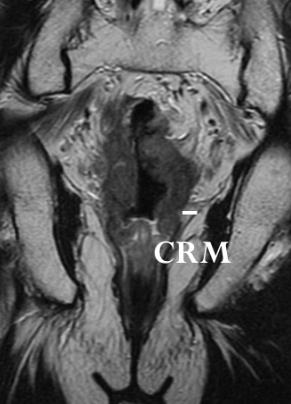
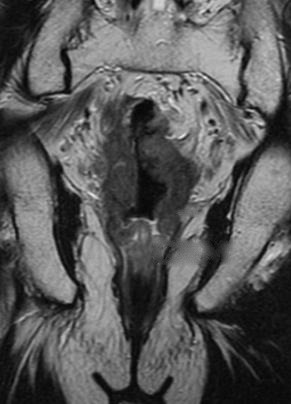
Fiche rectum : iconographie au style du site, nouveau schéma du staging T
- 10 images : flèches, têtes de flèche, textes et mesure incrustés repérés
  au pixel près, effacés, puis redessinés au même endroit dans un calque
  SVG (flèches orange cernées d'encre, tête de flèche noire en bleu, formes
  « ➤ » du stade T3 gardées, étiquettes en Montserrat, « 1,57 cm »).
- Lettres d'article A, B, C sans objet et curseur de souris retirés.
- Images « avant / après » recadrées en 2:1 (format affiché) ; pastille
  « Avant / après » retirée de 3 figures (doublon des étiquettes) ;
  l'agrandissement reprend le calque (.lb-wrap).
- Schéma du staging T remplacé par le dessin de l'auteur.
- Images versionnées (?v=20261021) ; README.

Claude-Session: https://claude.ai/code/session_01XRUNcZaE25We66fu1uYoPm

Changed region(s): [[0.5258, 0.5941, 0.8041, 0.6535], [0.6186, 0.505, 0.6804, 0.5347]]

diff --git a/fiches/irm-cancer-rectum.html b/fiches/irm-cancer-rectum.html
@@ -267,7 +267,7 @@
           <div class="ex-gallery">
             <div class="ex-grid ex-grid-wide">
               <figure class="ex-fig" style="--c: var(--amber)">
-                <button class="ex-img" aria-label="Agrandir : Formes tumorales"><img src="../assets/fiches/rectum/formes-tumorales.jpg" alt="IRM T2 sagittale et axiale — illustration des formes tumorales" loading="lazy"><span class="ex-mod">IRM T2</span></button>
+                <button class="ex-img" aria-label="Agrandir : Formes tumorales"><img src="../assets/fiches/rectum/formes-tumorales.jpg?v=20261021" alt="IRM T2 sagittale et axiale — illustration des formes tumorales" loading="lazy"><span class="ex-mod">IRM T2</span></button>
                 <figcaption><strong>Formes tumorales</strong>Coupes sagittale et axiale T2 illustrant l'aspect morphologique de la tumeur (illustration du cours).</figcaption>
               </figure>
             </div>
@@ -324,8 +324,8 @@
                   <p><mark class="k-key">Envahissement du mésorectum</mark>.</p>
                   <p><mark class="k-ddx">Piège</mark> : discontinuité de la musculeuse (vaisseaux perforants) et spiculations péri-rectales : <mark class="k-ddx">spicules non tumorales</mark> (réaction desmoplastique bénigne) ou tumorales.</p>
                   <figure class="ex-fig ex-inline" style="--c: var(--orange)">
-                    <button class="ex-img" aria-label="Agrandir : Stade T3"><img src="../assets/fiches/rectum/stade-t3.jpg" alt="IRM T2 axiale — stade T3" loading="lazy"><span class="ex-mod">T2 axial</span></button>
-                    <figcaption><strong>Stade T3</strong>Extension tumorale dans la graisse du mésorectum (têtes de flèche).</figcaption>
+                    <button class="ex-img" aria-label="Agrandir : Stade T3"><img src="../assets/fiches/rectum/stade-t3.jpg?v=20261021" alt="IRM T2 axiale — stade T3" loading="lazy"><svg class="annot" style="position:absolute;top:0;left:0;width:100%;height:100%;overflow:hidden" viewBox="0 0 341 270" aria-hidden="true"><g class="mk" data-mk="ext"><path fill="#f2ab2f" stroke="#111114" stroke-width="1.8" stroke-linejoin="round" d="M137.8 193 121.5 199.2 130.9 200.8 134.1 209.4 Z"/></g><g class="mk" data-mk="ext"><path fill="#f2ab2f" stroke="#111114" stroke-width="1.8" stroke-linejoin="round" d="M163.3 197.5 157 213.8 164.6 207.9 173.3 211.3 Z"/></g></svg><span class="ex-mod">T2 axial</span></button>
+                    <figcaption><strong>Stade T3</strong>Extension tumorale dans la graisse du mésorectum (têtes de flèche orange).</figcaption>
                   </figure>
                 </article>
                 <article class="t-panel" data-t="t4" style="--c: var(--k-grave)">
@@ -335,7 +335,7 @@
               </div>
             </div>
             <figure class="ex-fig ex-schema" style="--c: var(--slate)">
-              <button class="ex-img" aria-label="Agrandir : Schéma du staging T"><img src="../assets/fiches/rectum/schema-staging-t.jpg" alt="Schéma du staging T du cancer du rectum" loading="lazy"><span class="ex-mod">Schéma</span></button>
+              <button class="ex-img" aria-label="Agrandir : Schéma du staging T"><img src="../assets/fiches/rectum/schema-staging-t.jpg?v=20261021" alt="Schéma du staging T du cancer du rectum : T1 sous-muqueuse, T2 musculeuse, T3 au-delà de la musculeuse, T4 viscères adjacents" loading="lazy"><span class="ex-mod">Schéma</span></button>
               <figcaption><strong>Staging T</strong>T1 sous-muqueuse, T2 musculeuse, T3 mésorectum, T4 organes de voisinage.</figcaption>
             </figure>
           </div>
@@ -374,15 +374,15 @@
           <div class="ex-gallery">
             <div class="ex-grid">
               <figure class="ex-fig ex-schema" style="--c: var(--slate)">
-                <button class="ex-img" aria-label="Agrandir : Schéma CRM tumeur T1"><img src="../assets/fiches/rectum/schema-crm-t1.png" alt="Schéma : CRM et EMS pour une tumeur T1" loading="lazy"><span class="ex-mod">Schéma</span></button>
+                <button class="ex-img" aria-label="Agrandir : Schéma CRM tumeur T1"><img src="../assets/fiches/rectum/schema-crm-t1.png?v=20261021" alt="Schéma : CRM et EMS pour une tumeur T1" loading="lazy"><svg class="annot" style="position:absolute;top:0;left:0;width:100%;height:100%;overflow:hidden" viewBox="0 0 679 466" aria-hidden="true"><text x="319" y="73.1" text-anchor="middle" font-family="Montserrat, system-ui, sans-serif" font-weight="700" font-size="15.5" fill="#111114">mésorectum</text><text x="57.5" y="147.1" text-anchor="middle" font-family="Montserrat, system-ui, sans-serif" font-weight="700" font-size="15.5" fill="#111114">fascia recti</text><text x="579" y="307" text-anchor="start" font-family="Montserrat, system-ui, sans-serif" font-weight="700" font-size="14" fill="#111114">Ganglion</text><text x="579" y="329.5" text-anchor="start" font-family="Montserrat, system-ui, sans-serif" font-weight="700" font-size="14" fill="#111114">non suspect</text><text x="586" y="374" text-anchor="start" font-family="Montserrat, system-ui, sans-serif" font-weight="700" font-size="14" fill="#111114">Ganglion</text><text x="586" y="397.5" text-anchor="start" font-family="Montserrat, system-ui, sans-serif" font-weight="700" font-size="14" fill="#111114">suspect</text><text x="585" y="428.5" text-anchor="start" font-family="Montserrat, system-ui, sans-serif" font-weight="700" font-size="14" fill="#111114">musculeuse</text><text x="380.5" y="288.9" text-anchor="middle" font-family="Montserrat, system-ui, sans-serif" font-weight="900" font-size="15" fill="#111114">T3</text><g class="mk" data-mk="ems"><path d="M450.9 250.4 L486.9 289.6" stroke="#111114" stroke-width="6" stroke-linecap="round" fill="none"/><path d="M450.9 250.4 L486.9 289.6" stroke="#f7c832" stroke-width="3.2" stroke-linecap="round" fill="none"/><path fill="#f7c832" stroke="#111114" stroke-width="1.4" stroke-linejoin="round" d="M446 245.1 448.1 255.5 456.1 248 Z"/><path fill="#f7c832" stroke="#111114" stroke-width="1.4" stroke-linejoin="round" d="M491.8 294.9 481.7 292 489.8 284.5 Z"/></g><rect x="470.8" y="229" width="46.4" height="19" rx="9.5" fill="#f7c832" stroke="#111114" stroke-width="1.5"/><text x="494.4" y="242.8" text-anchor="middle" font-family="Montserrat, system-ui, sans-serif" font-weight="900" font-size="12" letter-spacing="0.7" fill="#111114">EMS</text><g class="mk" data-mk="crm"><path d="M445.5 332.9 L461.6 358" stroke="#111114" stroke-width="5.2" stroke-linecap="round" fill="none"/><path d="M445.5 332.9 L461.6 358" stroke="#1f8a5b" stroke-width="2.6" stroke-linecap="round" fill="none"/></g><rect x="388.4" y="352.5" width="48.2" height="19" rx="9.5" fill="#1f8a5b" stroke="#111114" stroke-width="1.5"/><text x="412.9" y="366.3" text-anchor="middle" font-family="Montserrat, system-ui, sans-serif" font-weight="900" font-size="12" letter-spacing="0.7" fill="#ffffff">CRM</text></svg><span class="ex-mod">Schéma</span></button>
                 <figcaption><strong>CRM et EMS · tumeur T1</strong>CRM (vert) mesurée jusqu'au fascia recti ; distinction ganglion suspect / non suspect.</figcaption>
               </figure>
               <figure class="ex-fig ex-schema" style="--c: var(--slate)">
-                <button class="ex-img" aria-label="Agrandir : Schéma CRM tumeur T3"><img src="../assets/fiches/rectum/schema-crm-t3.png" alt="Schéma : CRM et EMS pour une tumeur T3" loading="lazy"><span class="ex-mod">Schéma</span></button>
+                <button class="ex-img" aria-label="Agrandir : Schéma CRM tumeur T3"><img src="../assets/fiches/rectum/schema-crm-t3.png?v=20261021" alt="Schéma : CRM et EMS pour une tumeur T3" loading="lazy"><svg class="annot" style="position:absolute;top:0;left:0;width:100%;height:100%;overflow:hidden" viewBox="0 0 591 413" aria-hidden="true"><text x="328" y="79.8" text-anchor="middle" font-family="Montserrat, system-ui, sans-serif" font-weight="700" font-size="16" fill="#111114">mésorectum</text><text x="61.5" y="144.8" text-anchor="middle" font-family="Montserrat, system-ui, sans-serif" font-weight="700" font-size="16" fill="#111114">fascia recti</text><text x="416" y="297.4" text-anchor="middle" font-family="Montserrat, system-ui, sans-serif" font-weight="900" font-size="15" fill="#111114">T3</text><g class="mk" data-mk="ems"><path d="M483.1 251.4 L521.6 289.9" stroke="#111114" stroke-width="6" stroke-linecap="round" fill="none"/><path d="M483.1 251.4 L521.6 289.9" stroke="#f7c832" stroke-width="3.2" stroke-linecap="round" fill="none"/><path fill="#f7c832" stroke="#111114" stroke-width="1.4" stroke-linejoin="round" d="M478 246.3 480.5 256.5 488.3 248.8 Z"/><path fill="#f7c832" stroke="#111114" stroke-width="1.4" stroke-linejoin="round" d="M526.7 295 516.5 292.5 524.2 284.7 Z"/></g><rect x="506.8" y="229.5" width="46.4" height="19" rx="9.5" fill="#f7c832" stroke="#111114" stroke-width="1.5"/><text x="530.4" y="243.3" text-anchor="middle" font-family="Montserrat, system-ui, sans-serif" font-weight="900" font-size="12" letter-spacing="0.7" fill="#111114">EMS</text><g class="mk" data-mk="crm"><path d="M477 331.3 L494.6 356.1" stroke="#111114" stroke-width="5.2" stroke-linecap="round" fill="none"/><path d="M477 331.3 L494.6 356.1" stroke="#1f8a5b" stroke-width="2.6" stroke-linecap="round" fill="none"/></g><rect x="416.9" y="350.5" width="48.2" height="19" rx="9.5" fill="#1f8a5b" stroke="#111114" stroke-width="1.5"/><text x="441.4" y="364.3" text-anchor="middle" font-family="Montserrat, system-ui, sans-serif" font-weight="900" font-size="12" letter-spacing="0.7" fill="#ffffff">CRM</text></svg><span class="ex-mod">Schéma</span></button>
                 <figcaption><strong>CRM et EMS · tumeur T3</strong>EMS (jaune) mesurée depuis la musculeuse ; CRM (vert) jusqu'au fascia recti.</figcaption>
               </figure>
               <figure class="ex-fig" style="--c: var(--orange)">
-                <button class="ex-img" aria-label="Agrandir : Mesure en IRM"><img src="../assets/fiches/rectum/mesure-axiale.jpg" alt="IRM axiale — exemple de mesure" loading="lazy"><span class="ex-mod">IRM axiale</span></button>
+                <button class="ex-img" aria-label="Agrandir : Mesure en IRM"><img src="../assets/fiches/rectum/mesure-axiale.jpg?v=20261021" alt="IRM axiale — exemple de mesure" loading="lazy"><svg class="annot" style="position:absolute;top:0;left:0;width:100%;height:100%;overflow:hidden" viewBox="0 0 358 271" aria-hidden="true"><g class="mk" data-mk="mesure"><path d="M98 145.6 L144.4 134.4" stroke="#111114" stroke-width="5.2" stroke-linecap="round" fill="none"/><path d="M98 145.6 L144.4 134.4" stroke="#f2ab2f" stroke-width="2.4" stroke-linecap="round" fill="none"/><path d="M99.2 150.5 L96.8 140.7" stroke="#111114" stroke-width="5.2" stroke-linecap="round" fill="none"/><path d="M99.2 150.5 L96.8 140.7" stroke="#f2ab2f" stroke-width="2.4" stroke-linecap="round" fill="none"/><path d="M145.6 139.3 L143.2 129.5" stroke="#111114" stroke-width="5.2" stroke-linecap="round" fill="none"/><path d="M145.6 139.3 L143.2 129.5" stroke="#f2ab2f" stroke-width="2.4" stroke-linecap="round" fill="none"/></g><rect x="41" y="180.1" width="74.8" height="21" rx="10.5" fill="#f2ab2f" stroke="#111114" stroke-width="1.5"/><text x="78.8" y="195.3" text-anchor="middle" font-family="Montserrat, system-ui, sans-serif" font-weight="900" font-size="13" letter-spacing="0.8" fill="#111114">1,57 cm</text></svg><span class="ex-mod">IRM axiale</span></button>
                 <figcaption><strong>Exemple de mesure</strong>Mesure sur coupe axiale (1,57 cm), illustrant l'évaluation de l'extension dans le mésorectum.</figcaption>
               </figure>
             </div>
@@ -410,7 +410,7 @@
               </ul>
             </div>
             <figure class="ex-fig" style="--c: var(--rose)">
-              <button class="ex-img" aria-label="Agrandir : CRM du bas rectum"><img src="../assets/fiches/rectum/crm-bas-rectum.jpg" alt="IRM T2 coronale — CRM d'une tumeur du bas rectum" loading="lazy"><span class="ex-mod">T2 coronal</span></button>
+              <button class="ex-img" aria-label="Agrandir : CRM du bas rectum"><img src="../assets/fiches/rectum/crm-bas-rectum.jpg?v=20261021" alt="IRM T2 coronale — CRM d'une tumeur du bas rectum" loading="lazy"><svg class="annot" style="position:absolute;top:0;left:0;width:100%;height:100%;overflow:hidden" viewBox="0 0 291 404" aria-hidden="true"><g class="mk" data-mk="crm"><rect x="182.5" y="210" width="15" height="4.5" rx="1.5" fill="#f2ab2f" stroke="#111114" stroke-width="1.4"/></g><rect x="159.9" y="239.5" width="64.3" height="25" rx="12.5" fill="#111114" stroke="#111114" stroke-width="1.5"/><text x="192.5" y="257.8" text-anchor="middle" font-family="Montserrat, system-ui, sans-serif" font-weight="900" font-size="16" letter-spacing="1" fill="#ffffff">CRM</text></svg><span class="ex-mod">T2 coronal</span></button>
               <figcaption><strong>CRM au bas rectum</strong>Coupe coronale T2 sur le canal anal : marge latérale (CRM) mesurée par rapport au plan de clivage avec le faisceau ilio-coccygien.</figcaption>
             </figure>
           </div>
@@ -537,21 +537,21 @@
           <h3 class="marker-sub">1. Aspect de la tumeur : 3 types de réponse + l'œdème</h3>
           <div class="resp-grid">
             <figure class="ex-fig resp" style="--c: var(--slate)">
-              <button class="ex-img" aria-label="Agrandir : Réponse fibreuse"><img src="../assets/fiches/rectum/reponse-fibreuse.jpg" alt="IRM initiale et après traitement — réponse fibreuse" loading="lazy"><span class="ex-mod">Avant / après</span></button>
+              <button class="ex-img" aria-label="Agrandir : Réponse fibreuse"><img src="../assets/fiches/rectum/reponse-fibreuse.jpg?v=20261021" alt="IRM initiale et après traitement — réponse fibreuse" loading="lazy"><svg class="annot" style="position:absolute;top:0;left:0;width:100%;height:100%;overflow:hidden" viewBox="0 0 688 344" aria-hidden="true"><g transform="translate(0 -4)"><g class="mk" data-mk="fleche"><path fill="#f2ab2f" stroke="#111114" stroke-width="2.2" stroke-linejoin="round" d="M47 258 86.1 257.8 86.2 267.3 116 253.2 86 239.3 86.1 248.8 47 249 Z"/></g><g class="mk" data-mk="tete"><path fill="#f2ab2f" stroke="#111114" stroke-width="2.2" stroke-linejoin="round" d="M464.5 297.7 493.5 277.7 493.6 311.2 Z"/></g><rect x="83.9" y="4.9" width="154.2" height="27.2" rx="13.6" fill="#111114" stroke="#111114" stroke-width="1.5"/><text x="161.5" y="24.6" text-anchor="middle" font-family="Montserrat, system-ui, sans-serif" font-weight="900" font-size="17" letter-spacing="1" fill="#ffffff">IRM INITIALE</text><rect x="387.3" y="4.9" width="225.4" height="27.2" rx="13.6" fill="#111114" stroke="#111114" stroke-width="1.5"/><text x="500.5" y="24.6" text-anchor="middle" font-family="Montserrat, system-ui, sans-serif" font-weight="900" font-size="17" letter-spacing="1" fill="#ffffff">APRÈS TRAITEMENT</text></g></svg></button>
               <figcaption><strong>Réponse fibreuse</strong>
                 <span>Stroma fibreux en <mark class="k-signo">hyposignal T2</mark>, similaire au signal de la musculeuse.</span>
                 <span><mark class="k-ddx">Résidu tumoral au sein de la fibrose : signal intermédiaire</mark>.</span>
               </figcaption>
             </figure>
             <figure class="ex-fig resp" style="--c: var(--amber)">
-              <button class="ex-img" aria-label="Agrandir : Réponse desmoplastique"><img src="../assets/fiches/rectum/reponse-desmoplastique.jpg" alt="IRM initiale et après traitement — réponse desmoplastique" loading="lazy"><span class="ex-mod">Avant / après</span></button>
+              <button class="ex-img" aria-label="Agrandir : Réponse desmoplastique"><img src="../assets/fiches/rectum/reponse-desmoplastique.jpg?v=20261021" alt="IRM initiale et après traitement — réponse desmoplastique" loading="lazy"><svg class="annot" style="position:absolute;top:0;left:0;width:100%;height:100%;overflow:hidden" viewBox="0 0 410 205" aria-hidden="true"><g transform="translate(0 -5)"><g class="mk" data-mk="tete"><path fill="#f2ab2f" stroke="#111114" stroke-width="1.8" stroke-linejoin="round" d="M100.5 48.5 93.9 33.3 107.1 33.3 Z"/></g><g class="mk" data-mk="fleche"><path fill="#f2ab2f" stroke="#111114" stroke-width="1.8" stroke-linejoin="round" d="M207 83 174.8 83 174.8 79 162 86 174.8 93 174.8 89 207 89 Z"/></g><g class="mk" data-mk="tete"><path fill="#f2ab2f" stroke="#111114" stroke-width="1.8" stroke-linejoin="round" d="M247.1 95.1 259.5 99.5 247.1 103.9 Z"/></g><g class="mk" data-mk="fleche"><path fill="#f2ab2f" stroke="#111114" stroke-width="1.8" stroke-linejoin="round" d="M389 101.9 363.4 102.2 363.3 96.7 346 105.4 363.5 113.7 363.5 108.2 389 107.9 Z"/></g><g class="mk" data-mk="tete"><path fill="#f2ab2f" stroke="#111114" stroke-width="1.8" stroke-linejoin="round" d="M352 138.2 350.8 147 338.5 142.5 Z"/></g><rect x="31.1" y="7.4" width="108.9" height="19.2" rx="9.6" fill="#111114" stroke="#111114" stroke-width="1.5"/><text x="85.9" y="21.3" text-anchor="middle" font-family="Montserrat, system-ui, sans-serif" font-weight="900" font-size="12" letter-spacing="0.7" fill="#ffffff">IRM INITIALE</text><rect x="227.4" y="8.4" width="159.1" height="19.2" rx="9.6" fill="#111114" stroke="#111114" stroke-width="1.5"/><text x="307.4" y="22.3" text-anchor="middle" font-family="Montserrat, system-ui, sans-serif" font-weight="900" font-size="12" letter-spacing="0.7" fill="#ffffff">APRÈS TRAITEMENT</text></g></svg></button>
               <figcaption><strong>Réponse desmoplastique</strong>
                 <span><mark class="k-signo">Fines spicules hypointenses</mark> dans la graisse péri-rectale, irradiant à partir du résidu tumoral.</span>
                 <span><mark class="k-ddx">Over-staging tumoral</mark>.</span>
               </figcaption>
             </figure>
             <figure class="ex-fig resp" style="--c: var(--purple)">
-              <button class="ex-img" aria-label="Agrandir : Réponse colloïde"><img src="../assets/fiches/rectum/reponse-colloide.jpg" alt="IRM initiale et après traitement — réponse colloïde" loading="lazy"><span class="ex-mod">Avant / après</span></button>
+              <button class="ex-img" aria-label="Agrandir : Réponse colloïde"><img src="../assets/fiches/rectum/reponse-colloide.jpg?v=20261021" alt="IRM initiale et après traitement — réponse colloïde" loading="lazy"><svg class="annot" style="position:absolute;top:0;left:0;width:100%;height:100%;overflow:hidden" viewBox="0 0 692 346" aria-hidden="true"><g transform="translate(-19 0)"><g class="mk" data-mk="fleche"><path fill="#f2ab2f" stroke="#111114" stroke-width="2.0" stroke-linejoin="round" d="M489.9 258.1 513.1 235.8 515.2 238 521.4 224.3 507.4 229.9 509.5 232.1 486.3 254.3 Z"/></g><rect x="80.9" y="12.4" width="154.2" height="27.2" rx="13.6" fill="#111114" stroke="#111114" stroke-width="1.5"/><text x="158.5" y="32.1" text-anchor="middle" font-family="Montserrat, system-ui, sans-serif" font-weight="900" font-size="17" letter-spacing="1" fill="#ffffff">IRM INITIALE</text><rect x="459.8" y="12.4" width="225.4" height="27.2" rx="13.6" fill="#111114" stroke="#111114" stroke-width="1.5"/><text x="573" y="32.1" text-anchor="middle" font-family="Montserrat, system-ui, sans-serif" font-weight="900" font-size="17" letter-spacing="1" fill="#ffffff">APRÈS TRAITEMENT</text></g></svg></button>
               <figcaption><strong>Réponse colloïde</strong>
                 <span>Nécrose de la tumeur avec <mark class="k-signo">transformation colloïde ou mucineuse</mark>.</span>
                 <span>Rend difficile l'évaluation du résidu ; impossible de distinguer colloïde acellulaire et pauci-cellulaire.</span>
@@ -559,7 +559,7 @@
               </figcaption>
             </figure>
             <figure class="ex-fig resp" style="--c: var(--rose)">
-              <button class="ex-img" aria-label="Agrandir : Œdème post-thérapeutique"><img src="../assets/fiches/rectum/oedeme-post-therapeutique.jpg" alt="IRM — œdème post-thérapeutique" loading="lazy"><span class="ex-mod">Avant / après</span></button>
+              <button class="ex-img" aria-label="Agrandir : Œdème post-thérapeutique"><img src="../assets/fiches/rectum/oedeme-post-therapeutique.jpg?v=20261021" alt="IRM — œdème post-thérapeutique" loading="lazy"><svg class="annot" style="position:absolute;top:0;left:0;width:100%;height:100%;overflow:hidden" viewBox="0 0 702 351" aria-hidden="true"><g transform="translate(-7 0)"><g class="mk" data-mk="tete"><path fill="#f2ab2f" stroke="#111114" stroke-width="2.2" stroke-linejoin="round" d="M202.1 75.5 220.5 92.9 192 100.8 Z"/></g><g class="mk" data-mk="tete"><path fill="#f2ab2f" stroke="#111114" stroke-width="2.2" stroke-linejoin="round" d="M245 133.8 253 109.6 272.5 125.8 Z"/></g><g class="mk" data-mk="tete"><path fill="#f2ab2f" stroke="#111114" stroke-width="2.2" stroke-linejoin="round" d="M545 100.8 554 75.6 573.5 91.8 Z"/></g><g class="mk" data-mk="tete"><path fill="#f2ab2f" stroke="#111114" stroke-width="2.2" stroke-linejoin="round" d="M597 156.8 606 132.6 625.5 148.8 Z"/></g><g class="mk" data-mk="tete-noire"><path fill="#5273bf" stroke="#111114" stroke-width="2.2" stroke-linejoin="round" d="M581.1 182.4 572 158.2 599.5 166.2 Z"/></g><g class="mk" data-mk="courbe"><path d="M71.7 162.4 Q93.1 154.2 114.5 153.8" fill="none" stroke="#111114" stroke-width="11.4" stroke-linecap="round"/><path d="M71.7 162.4 Q93.1 154.2 114.5 153.8" fill="none" stroke="#f2ab2f" stroke-width="7" stroke-linecap="round"/><path fill="#f2ab2f" stroke="#111114" stroke-width="2.2" stroke-linejoin="round" d="M113.3 163.4 132.6 154 112.7 144.2 Z"/></g><g class="mk" data-mk="courbe"><path d="M419.7 176.9 Q441.1 168.8 462.5 168.1" fill="none" stroke="#111114" stroke-width="11.4" stroke-linecap="round"/><path d="M419.7 176.9 Q441.1 168.8 462.5 168.1" fill="none" stroke="#f2ab2f" stroke-width="7" stroke-linecap="round"/><path fill="#f2ab2f" stroke="#111114" stroke-width="2.2" stroke-linejoin="round" d="M461.4 177.3 480.6 168.5 460.6 159.1 Z"/></g><g class="mk" data-mk="droite"><path fill="#f2ab2f" stroke="#111114" stroke-width="2.2" stroke-linejoin="round" d="M183 303 183 279.2 191 279.2 179 261 167 279.2 175 279.2 175 303 Z"/></g><g class="mk" data-mk="droite"><path fill="#f2ab2f" stroke="#111114" stroke-width="2.2" stroke-linejoin="round" d="M549.1 327 548.8 302.7 556.8 302.6 544.5 284 532.8 303 540.8 302.9 541.1 327.1 Z"/></g></g></svg><span class="ex-mod">Avant / après</span></button>
               <figcaption><strong>Œdème post-thérapeutique</strong>
                 <span>Peut avoir un <mark class="k-ddx">aspect pseudo-tumoral</mark>.</span>
                 <span><mark class="k-signo">Signal intermédiaire</mark> : inflammation de la sous-muqueuse adjacente à la tumeur.</span>
@@ -677,7 +677,7 @@
 
   <dialog class="lightbox" id="lightbox" aria-label="Image agrandie">
     <button class="modal-close" aria-label="Fermer">&times;</button>
-    <img src="" alt="">
+    <div class="lb-wrap"><img src="" alt=""></div>
     <p class="lightbox-cap"></p>
   </dialog>
 

diff --git a/README.md b/README.md
@@ -4,7 +4,7 @@
 
 🌐 **Site en ligne :** https://nodbysmilii-prog.github.io/radiologic-hub/
 
-> Dernière mise à jour du README : 19 octobre 2026
+> Dernière mise à jour du README : 21 octobre 2026
 
 ---
 
@@ -128,7 +128,7 @@ Masses rénales kystiques, **classification de Bosniak version 2019** (Silverman
 |---|---|---|---|
 | Digestif | **Adénocarcinome canalaire du pancréas** | `fiches/adenocarcinome-pancreas.html` | Tableau vasculaire filtrable, feu tricolore de résécabilité, **annexe « Cas & images »** repliable avec 2 carrousels annotés (cas d'extension vasculaire, signes typiques A–D, variante : sténose athéromateuse du tronc cœliaque A–B, diagnostics différentiels : métastases pancréatiques, tumeur neuroendocrine, pancréatite auto-immune) |
 | Digestif | **Imagerie de la maladie de Crohn** | `fiches/maladie-de-crohn.html` | Objectifs numérotés, préparation de l'entéro-IRM en frise, activité vs chronicité, phénotypes B1–B3 |
-| Digestif | **IRM pelvienne dans le cancer du rectum** | `fiches/irm-cancer-rectum.html` | 13 images du cours, onglets T1–T4, jauge EMS, échelle mrTRG, **checklist du compte rendu** mémorisée dans le navigateur |
+| Digestif | **IRM pelvienne dans le cancer du rectum** | `fiches/irm-cancer-rectum.html` | 13 images du cours (flèches, têtes de flèche, textes et mesure redessinés au style du site, en calques SVG), schéma du staging T de l'auteur, onglets T1–T4, jauge EMS, échelle mrTRG, **checklist du compte rendu** mémorisée dans le navigateur |
 | Uro | **IRM de la prostate : diagnostic du cancer** | `fiches/irm-prostate-diagnostic.html` | D'après la planche du cours, **sans les images IRM** : les 7 commandements (A–G), PI-QUAL (tableau 1–5 et implications), mesure de la glande et PSAd, signal de fond (Bura 2021, 1–4), onglets **ZP · diffusion** / **ZT · T2** (définitions des scores 1–5 et tableaux de décision PI-RADS v2.1 avec la perfusion / la diffusion accessoires), **cartographie sectorielle** dessinée (coupes axiales base / milieu / apex, vues sagittale et coronale, zones colorées, correspondances LPZ = PZpl…), PRECISE / Likert / PI-RR, checklist du CR, 6 cartes « Testez-vous » |
 | Uro | **IRM de la prostate : bilan d'extension** | `fiches/irm-prostate-extension.html` | D'après la planche du cours, **sans les images IRM** : à savoir (pas de vraie capsule…), **TNM 2016**, signes iT3a, **score EPE 0–3** avec schémas dessinés et Se / VPP / VPN, vésicules séminales iT3b (Likert, 3 types d'extension en schéma), iT4, iN (IRM, TEP-choline, TEP-PSMA), iM (scintigraphie, scanner TAP), checklist du CR, 6 cartes « Testez-vous » |
 | Uro | **Masses rénales kystiques : Bosniak 2019** | `fiches/masses-renales-kystiques.html` | D'après les notes de cours de l'auteur et la version 2019 (Silverman 2019), **sans les images de scanner** : à savoir (masse kystique < 25 % de tissu rehaussé, hors Bosniak, on ne compte que ce qui se rehausse, ordre IV → I), **vocabulaire 2019** (fine ≤ 2 mm, 3 mm, ≥ 4 mm, irrégularité, nodule), **les 5 catégories en tuiles avec les schémas de l'auteur** (critères TDM / IRM et conduite ; schémas identiques à ceux de la page Bosniak, vérifié par un test), kyste hyperdense, rehaussement (< 10, 10 à 19, ≥ 20 UH), pièges (cloison lisse de 3 mm = IIF, protrusion de 2 mm à angle aigu = IV…), conduite à tenir (dont tumeurs kystiques de bas potentiel et biopsie), checklist du CR (avec lien vers l'éditeur), 8 cartes « Testez-vous » ; bouton « Calculateur Bosniak → » |
@@ -613,6 +613,7 @@ Les tests n'utilisent que des **cas fictifs** (identifiants `TEST-0001`…) : au
 - [ ] **Images manquantes** : fiche pancréas (sémiologie, extension) et fiche Crohn — voir les README de `assets/fiches/pancreas/` et `assets/fiches/crohn/`.
 - [ ] **Fiche Crohn** : harmoniser la préparation de l'entéro-IRM (« 1 L / 45-60 min » vs « 1,5-2 L / 30 min-1 h »).
 - [ ] **Fiche rectum** : préciser les légendes des images « formes tumorales » et « mesure axiale 1,57 cm ».
+- [ ] **Fiche rectum** : le schéma légendé « CRM et EMS · tumeur T1 » porte « T3 » sur l'étoile tumorale (texte d'origine, gardé tel quel) : légende ou schéma à vérifier par l'auteur.
 - [ ] **Fiches des autres spécialités** : Neuro, Thorax, Traumato, Pédiatrie ; Cardio-vasculaire et Imagerie de la femme : d'autres fiches à venir.
 - [ ] **Coroscanner** : faire valider la formule (« sinus coronaire droit / gauche » remplace « sinus antérieur » pour les deux ostia ; la ligne « Absence de fuite aortique », reprise du service, est à garder ou non en scanner) et l'outil CAD-RADS (seuils P1-P4, conduites proposées, rattachement de la bissectrice au territoire de la circonflexe pour la règle des trois territoires).
 - [ ] **Fiche myocardite** : faire relire médicalement (notamment les aspects IRM types et le calculateur Lake Louise) ; déposer des images **anonymisées** de cas du service dans `assets/fiches/myocardite/` (noms attendus dans le README du dossier) ; images d'articles seulement sous licence libre (CC BY), auteurs cités.
@@ -636,6 +637,7 @@ Les tests n'utilisent que des **cas fictifs** (identifiants `TEST-0001`…) : au
 
 | Date | Modification |
 |---|---|
+| 21/10/2026 | Fiche **IRM du cancer du rectum** : **iconographie au style du site**. Sur 10 images, les flèches, têtes de flèche, textes et la mesure incrustés (repérés au pixel près) sont effacés puis redessinés **exactement au même endroit** en calques SVG : flèches et têtes de flèche orange cernées d'encre (tête de flèche noire de l'œdème en bleu, formes « ➤ » du stade T3 gardées), étiquettes en Montserrat (« IRM INITIALE », « APRÈS TRAITEMENT », « CRM », « EMS », « mésorectum », « fascia recti », légende), mesure « **1,57 cm** » (virgule) sur un trait au pied à coulisse ; lettres d'article sans objet (A, B, C) et curseur de souris d'une capture retirés. Images « avant / après traitement » recadrées au format 2:1 où la fiche les affiche (calques justes dans la vignette et dans l'agrandissement, qui reprend désormais le calque) ; pastille « Avant / après » retirée de ces 3 figures (doublon des étiquettes). **Nouveau schéma du staging T** (dessin de l'auteur) à la place de l'ancien schéma en anglais. Images versionnées (`?v=20261021`). |
 | 19/10/2026 | IRM cérébrale, interface de validation : ouverte dans le panneau intégré de l'application Claude, la page ne trouvait pas ses données (« Manifeste introuvable ») ; elle affiche désormais un message clair avec le lien à ouvrir dans le navigateur. |
 | 19/10/2026 | IRM cérébrale, **contour du tronc cérébral arrondi** (demande de l'auteur : « des traits qui ne contournent pas le tronc cérébral, essaie d'arrondir les contours ») : règle 6 de `corrections_auteur.py` (`lisser_tronc`, paramètre dans `corrections-auteur.json`) : sur chaque coupe axiale, ouverture puis fermeture par un disque de 1,4 mm, plus grande partie gardée ; les traits de pinceau sagittaux du haut du mésencéphale et les fines lignes de gomme disparaissent (2 792 voxels retirés, rendus à leur étiquette d'avant), la fermeture n'ajoute que du tissu voisin (285 voxels, jamais de LCS ni de cervelet) ; mésencéphale 10,3 ml, pont 13,0 ml, bulbe 4,6 ml ; audit relancé. |
 | 19/10/2026 | IRM cérébrale, **audit contre les atlas de référence** (MNI-ICBM152 2009c, CerebrA et Harvard-Oxford recalés sur le sujet, corrélation 0,975 ; CerebrA et Harvard-Oxford en contrôle interne seulement) : **un fichier « source de vérité » par structure** (`scripts/radioanatomie/irm/audit/labels/`, nom français et anglais, côté, trois plans, coordonnées MNI, atlas, identifiant, confiance), tableau complet (`audit/tableau-labels.md`), **rapport de validation** (`audit/RAPPORT-VALIDATION.md`) et captures des trois plans par groupe (non versionnées) ; 99 structures concordantes, 35 partielles, 21 discordantes, 154 hors atlas (non confirmées, source gardée), 169 à placer. **Erreurs corrigées** : « lobe limbique » remplacé par le **cortex cingulaire** du protocole DKT (Klein et Tourville 2012), en cortex seul ; gyrus parahippocampique et cortex entorhinal rattachés au **lobe temporal** ; convention « vue radiologique » écrite sur chaque coupe. **Signalé, non corrigé** : jonction temporo-occipitale (9 à 11 % du lobe temporal occipital pour Harvard-Oxford, 3 % pour CerebrA), cingulaire gauche (sillon paracingulaire probable), chiasma, hypothalamus, mésencéphale, point A1 gauche sur la ligne médiane, règles géométriques des territoires (Tatu 1998 non consulté). Test `tests/radioanatomie-irm-audit.test.js`. |

diff --git a/assets/fiches/rectum/README.md b/assets/fiches/rectum/README.md
@@ -3,6 +3,11 @@
 Images extraites du cours de l'auteur (PDF « irm_rectum_2 »).
 Pour remplacer une image, garder le même nom de fichier.
 
+Depuis le 21/10/2026, les flèches, textes et mesures d'origine sont **effacés des images** et redessinés au style du site
+dans un calque SVG (`<svg class="annot">`) placé dans la fiche, aux mêmes coordonnées (pixels de l'image).
+Les 4 images « avant / après » sont recadrées au format 2:1 (celui de la fiche). Si une image est remplacée,
+reprendre son calque. `schema-staging-t.jpg` : schéma dessiné par l'auteur.
+
 | Fichier | Section |
 |---|---|
 | `formes-tumorales.jpg` | V.1 Formes tumorales |
